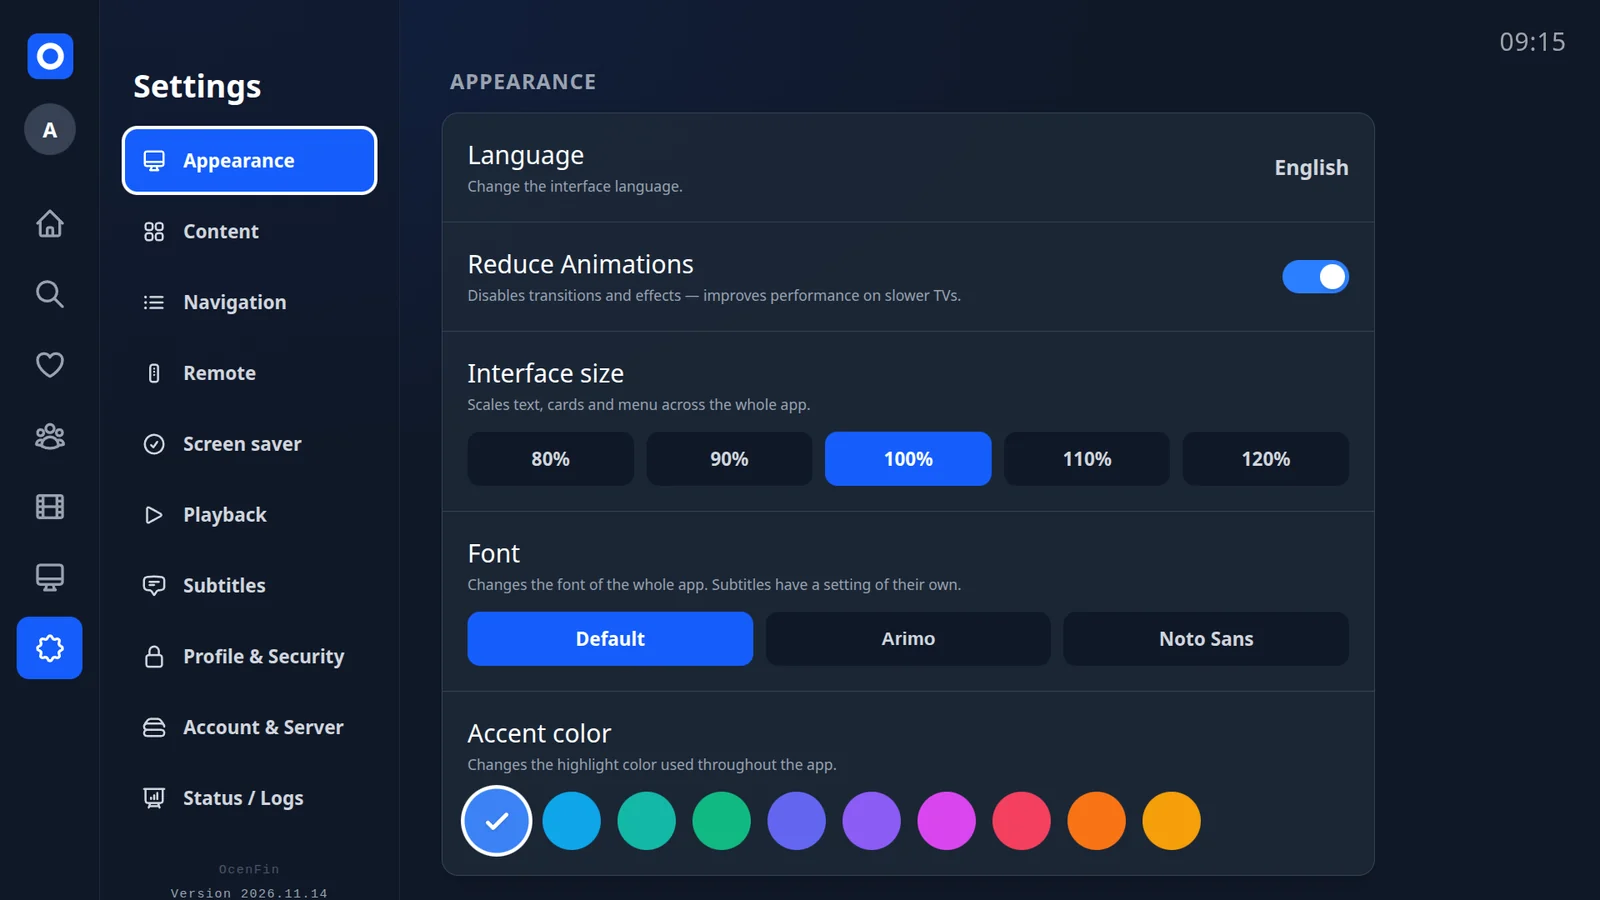
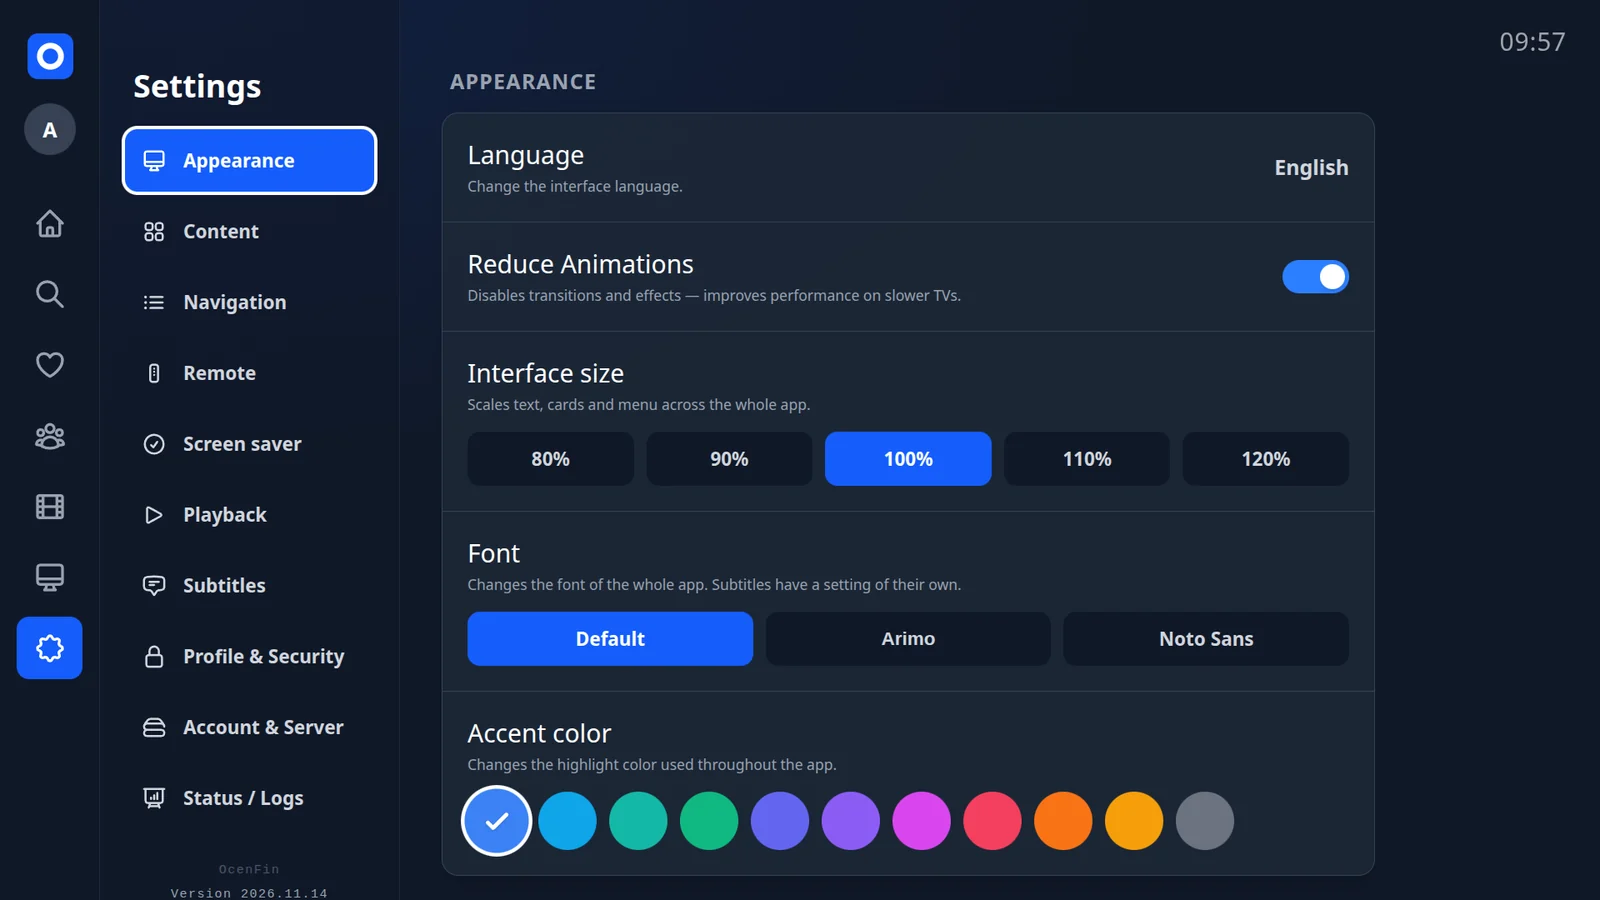
Accent colours: readable, consistent, and graphite
Two places stayed blue whatever accent colour was chosen: the glow around the seek bar's handle and the description on the selected screensaver tile. Both follow the accent now. With emerald, amber, sky, teal or orange, white text on accent buttons and labels fell below the usual contrast; these colours use a slightly deeper tone there, as light as readability allows, and large accent buttons no longer turn paler when focused. A neutral graphite joins the ten colours, for an interface without any colour.

Changed region(s): [[0.3125, 0.8711, 0.7812, 0.9644], [0.9375, 0.0311, 0.9688, 0.0622]]

diff --git a/src/components/Settings.svelte b/src/components/Settings.svelte
@@ -626,6 +626,7 @@
     { id: 'rose',    color: '#f43f5e', label: i18n.t.themeRose },
     { id: 'orange',  color: '#f97316', label: i18n.t.themeOrange },
     { id: 'amber',   color: '#f59e0b', label: i18n.t.themeAmber },
+    { id: 'graphite', color: '#6b7280', label: i18n.t.themeGraphite },
   ];
 
   // Display elements grouped: home rows vs. general interface
@@ -804,7 +805,8 @@
         <div class="p-6">
           <span class="text-2xl text-white font-medium block">{i18n.t.accentColor}</span>
           <span class="text-gray-400 mt-1 mb-4 block text-sm">{i18n.t.accentColorDesc}</span>
-          <div class="flex gap-4 flex-wrap">
+          <!-- gap-3, not 4: eleven swatches stay on one line up to 120 % interface size (CODE-HEALTH §96). -->
+          <div class="flex gap-3 flex-wrap">
             {#each themeSwatches as sw}
               <button onclick={() => setTheme(sw.id)} title={sw.label}
                 class="w-14 h-14 rounded-full focus:outline-none focus:ring-4 focus:ring-white transition-all
@@ -1093,7 +1095,7 @@
                   class="flex-1 text-left p-4 rounded-xl focus:outline-none focus:ring-4 focus:ring-white transition-all
                          {screensaverSettings.mode === val ? 'bg-blue-600 text-white' : 'bg-gray-900 text-gray-300 hover:bg-gray-700'}">
                   <span class="block font-bold text-lg">{label}</span>
-                  <span class="block text-sm mt-0.5 {screensaverSettings.mode === val ? 'text-blue-100' : 'text-gray-400'}">{desc}</span>
+                  <span class="block text-sm mt-0.5 {screensaverSettings.mode === val ? 'text-white/80' : 'text-gray-400'}">{desc}</span>
                 </button>
               {/each}
             </div>
@@ -1665,7 +1667,7 @@
             </button>
             <button onclick={saveProfileImage} disabled={!hasEditedAvatar}
               class="px-6 py-3 rounded-xl font-bold text-base focus:outline-none focus:ring-4 focus:ring-white transition-colors
-                     {avatarSaved ? 'bg-green-600 text-white' : 'bg-blue-600 text-white hover:bg-blue-500 disabled:opacity-50'}">
+                     {avatarSaved ? 'bg-green-600 text-white' : 'bg-blue-600 text-white disabled:opacity-50'}">
               {avatarSaved ? i18n.t.saved : avatarSaving ? i18n.t.saving : i18n.t.save}
             </button>
           </div>
@@ -1750,7 +1752,7 @@
               </div>
             {/if}
             <button onclick={() => avatarModalOpen = false}
-              class="w-full py-3 rounded-xl font-bold text-base bg-blue-600 text-white hover:bg-blue-500 focus:outline-none focus:ring-4 focus:ring-white transition-colors">
+              class="w-full py-3 rounded-xl font-bold text-base bg-blue-600 text-white focus:outline-none focus:ring-4 focus:ring-white transition-colors">
               {i18n.t.close}
             </button>
           </div>
@@ -2056,10 +2058,10 @@
         <div class="flex items-center gap-3">
           <!-- not `disabled` while sending: a disabled button drops its focus; sendLog() guards instead -->
           <button onclick={sendLog}
-            class="px-5 py-3 rounded-xl font-bold bg-blue-600 hover:bg-blue-500 focus:bg-blue-500 text-white
+            class="px-5 py-3 rounded-xl font-bold bg-blue-600 text-white
                    focus:outline-none focus:ring-4 focus:ring-white transition-colors">{logSend?.state === 'sending' ? i18n.t.logSending : i18n.t.logSendButton}</button>
           <button bind:this={qrBtnEl} onclick={showLogQr}
-            class="px-5 py-3 rounded-xl font-bold bg-blue-600 hover:bg-blue-500 focus:bg-blue-500 text-white
+            class="px-5 py-3 rounded-xl font-bold bg-blue-600 text-white
                    focus:outline-none focus:ring-4 focus:ring-white transition-colors">{i18n.t.logQrButton}</button>
           <button onclick={() => showLog = false} {@attach focusOnMount()}
             class="px-5 py-3 rounded-xl font-bold bg-gray-700 hover:bg-gray-600 focus:bg-gray-600 text-white
@@ -2230,7 +2232,7 @@
         </div>
         {#if pwMessage}<p class="text-blue-400 font-bold text-lg">{pwMessage}</p>{/if}
         <button onclick={changePassword} disabled={!newPw}
-          class="w-full bg-blue-600 hover:bg-blue-500 focus:bg-blue-500 text-white font-bold text-2xl py-6 rounded-xl
+          class="w-full bg-blue-600 text-white font-bold text-2xl py-6 rounded-xl
                  focus:outline-none focus:ring-4 focus:ring-white mt-2 disabled:opacity-50">{i18n.t.save}</button>
 
       {:else if activeModal === 'quickConnect'}
@@ -2242,7 +2244,7 @@
                  focus:outline-none focus:ring-4 focus:ring-blue-500" />
         {#if qcMessage}<p class="text-blue-400 font-bold text-lg">{qcMessage}</p>{/if}
         <button onclick={authorizeQuickConnect}
-          class="w-full bg-blue-600 hover:bg-blue-500 focus:bg-blue-500 text-white font-bold text-2xl py-6 rounded-xl
+          class="w-full bg-blue-600 text-white font-bold text-2xl py-6 rounded-xl
                  focus:outline-none focus:ring-4 focus:ring-white mt-2">{i18n.t.qcAuthorizeBtn}</button>
 
       {:else if activeModal === 'sharedPicker'}
@@ -2297,7 +2299,7 @@
                  focus:outline-none focus:ring-4 focus:ring-blue-500" />
         {#if sharedError}<p class="text-red-400 font-bold text-lg">{sharedError}</p>{/if}
         <button onclick={commitSharedManual} disabled={sharedBusy || !sharedManualName.trim()}
-          class="w-full bg-blue-600 hover:bg-blue-500 focus:bg-blue-500 text-white font-bold text-2xl py-6 rounded-xl
+          class="w-full bg-blue-600 text-white font-bold text-2xl py-6 rounded-xl
                  focus:outline-none focus:ring-4 focus:ring-white mt-2 disabled:opacity-50">{i18n.t.confirm}</button>
 
       {:else if activeModal === 'sharedPassword'}
@@ -2309,7 +2311,7 @@
                  focus:outline-none focus:ring-4 focus:ring-blue-500" />
         {#if sharedError}<p class="text-red-400 font-bold text-lg">{sharedError}</p>{/if}
         <button onclick={() => commitSharedUser(sharedPickerUser, sharedPw)} disabled={sharedBusy}
-          class="w-full bg-blue-600 hover:bg-blue-500 focus:bg-blue-500 text-white font-bold text-2xl py-6 rounded-xl
+          class="w-full bg-blue-600 text-white font-bold text-2xl py-6 rounded-xl
                  focus:outline-none focus:ring-4 focus:ring-white mt-2 disabled:opacity-50">{i18n.t.confirm}</button>
       {/if}
 

diff --git a/src/App.svelte b/src/App.svelte
@@ -2279,24 +2279,27 @@
   /* Accent color themes: in Tailwind v4 all blue utilities use CSS variables.
      We override only these → the whole accent color switches without touching 100+
      classes. Red (favorite) and green (watched) stay untouched. The tones are
-     chosen to be OLED-friendly (vivid, slightly desaturated, good on deep black). */
+     chosen to be OLED-friendly (vivid, slightly desaturated, good on deep black).
+     600 carries white text (buttons, labels, selected states), so it must reach 4.5:1 against white:
+     emerald, amber, sky, teal and orange therefore use the lightest tone between their 600 and 700 that
+     reaches 4.6:1 (OKLab mix, CODE-HEALTH §96) — darker would dull them for nothing. */
   :global(html[data-theme="emerald"]) {
-    --color-blue-300:#6ee7b7; --color-blue-400:#34d399; --color-blue-500:#10b981; --color-blue-600:#059669; --color-blue-900:#064e3b;
+    --color-blue-300:#6ee7b7; --color-blue-400:#34d399; --color-blue-500:#10b981; --color-blue-600:#04855f; --color-blue-900:#064e3b;
   }
   :global(html[data-theme="violet"]) {
     --color-blue-300:#c4b5fd; --color-blue-400:#a78bfa; --color-blue-500:#8b5cf6; --color-blue-600:#7c3aed; --color-blue-900:#4c1d95;
   }
   :global(html[data-theme="amber"]) {
-    --color-blue-300:#fcd34d; --color-blue-400:#fbbf24; --color-blue-500:#f59e0b; --color-blue-600:#d97706; --color-blue-900:#78350f;
+    --color-blue-300:#fcd34d; --color-blue-400:#fbbf24; --color-blue-500:#f59e0b; --color-blue-600:#bb5909; --color-blue-900:#78350f;
   }
   :global(html[data-theme="rose"]) {
     --color-blue-300:#fda4af; --color-blue-400:#fb7185; --color-blue-500:#f43f5e; --color-blue-600:#e11d48; --color-blue-900:#881337;
   }
   :global(html[data-theme="sky"]) {
-    --color-blue-300:#7dd3fc; --color-blue-400:#38bdf8; --color-blue-500:#0ea5e9; --color-blue-600:#0284c7; --color-blue-900:#0c4a6e;
+    --color-blue-300:#7dd3fc; --color-blue-400:#38bdf8; --color-blue-500:#0ea5e9; --color-blue-600:#027bbb; --color-blue-900:#0c4a6e;
   }
   :global(html[data-theme="teal"]) {
-    --color-blue-300:#5eead4; --color-blue-400:#2dd4bf; --color-blue-500:#14b8a6; --color-blue-600:#0d9488; --color-blue-900:#134e4a;
+    --color-blue-300:#5eead4; --color-blue-400:#2dd4bf; --color-blue-500:#14b8a6; --color-blue-600:#0f837a; --color-blue-900:#134e4a;
   }
   :global(html[data-theme="indigo"]) {
     --color-blue-300:#a5b4fc; --color-blue-400:#818cf8; --color-blue-500:#6366f1; --color-blue-600:#4f46e5; --color-blue-900:#312e81;
@@ -2305,7 +2308,12 @@
     --color-blue-300:#f0abfc; --color-blue-400:#e879f9; --color-blue-500:#d946ef; --color-blue-600:#c026d3; --color-blue-900:#701a75;
   }
   :global(html[data-theme="orange"]) {
-    --color-blue-300:#fdba74; --color-blue-400:#fb923c; --color-blue-500:#f97316; --color-blue-600:#ea580c; --color-blue-900:#7c2d12;
+    --color-blue-300:#fdba74; --color-blue-400:#fb923c; --color-blue-500:#f97316; --color-blue-600:#ce480c; --color-blue-900:#7c2d12;
+  }
+  /* Graphite: no colour at all, the UI's own gray family one step lighter than its surfaces — 600 = gray-500
+     (white text 4.83:1), 500 = gray-400, clearly above a switched-off toggle's gray-600 (CODE-HEALTH §96). */
+  :global(html[data-theme="graphite"]) {
+    --color-blue-300:#e5e7eb; --color-blue-400:#d1d5db; --color-blue-500:#9ca3af; --color-blue-600:#6b7280; --color-blue-900:#374151;
   }
 
   /* Splash screen: logo pulses gently, overlay fades out */

diff --git a/src/components/Login.svelte b/src/components/Login.svelte
@@ -574,7 +574,7 @@
           <button
             onclick={discoverJellyfinServers}
             disabled={isDiscovering}
-            class="w-full flex items-center justify-center gap-3 bg-blue-600 hover:bg-blue-500 disabled:bg-blue-900
+            class="w-full flex items-center justify-center gap-3 bg-blue-600 disabled:bg-blue-900
                    text-white font-bold text-lg py-4 rounded-xl focus:outline-none focus:ring-4 focus:ring-blue-300 transition-colors"
           >
             {#if isDiscovering}
@@ -688,7 +688,7 @@
             {@attach focusOnMount()}
           />
           <button onclick={() => authenticateUser(pendingUser.Name, password)}
-            class="w-full bg-blue-600 hover:bg-blue-500 text-white font-bold text-xl py-4 rounded-xl mb-4
+            class="w-full bg-blue-600 text-white font-bold text-xl py-4 rounded-xl mb-4
                    focus:outline-none focus:ring-4 focus:ring-white">
             {i18n.t.loginText}
           </button>
@@ -732,7 +732,7 @@
                    focus:outline-none focus:ring-4 focus:ring-blue-500"
           />
           <button onclick={() => authenticateUser(manualUsername, manualPassword)}
-            class="w-full bg-blue-600 hover:bg-blue-500 text-white font-bold text-xl py-4 rounded-xl mb-4
+            class="w-full bg-blue-600 text-white font-bold text-xl py-4 rounded-xl mb-4
                    focus:outline-none focus:ring-4 focus:ring-white">
             {i18n.t.loginText}
           </button>

diff --git a/src/components/Collection.svelte b/src/components/Collection.svelte
@@ -296,7 +296,7 @@
     <h1 class="text-4xl font-bold text-white min-w-0 truncate">{name === WATCHLIST_NAME ? i18n.t.watchlist : name}</h1>
     {#if items.length > 0 && !playlistEditMode}
       <button onclick={playAll}
-        class="ml-4 shrink-0 bg-blue-600 hover:bg-blue-500 focus:bg-blue-500 text-white font-bold px-6 py-3 rounded-xl
+        class="ml-4 shrink-0 bg-blue-600 text-white font-bold px-6 py-3 rounded-xl
                focus:outline-none focus:ring-4 focus:ring-white transition-colors flex items-center gap-2">
         {#if buildingQueue}
           <div class="w-5 h-5 border-2 border-white border-t-transparent rounded-full animate-spin"></div>
@@ -384,7 +384,7 @@
                        focus:outline-none focus:ring-2 focus:ring-blue-500 focus:border-blue-500"
               />
               <button onclick={savePlaylistName}
-                class="px-6 py-3 rounded-lg font-bold bg-blue-600 hover:bg-blue-500 focus:bg-blue-500 text-white focus:outline-none focus:ring-4 focus:ring-white transition-colors">
+                class="px-6 py-3 rounded-lg font-bold bg-blue-600 text-white focus:outline-none focus:ring-4 focus:ring-white transition-colors">
                 {i18n.t.save}
               </button>
               <button onclick={endRename}

diff --git a/src/components/Player.svelte b/src/components/Player.svelte
@@ -2906,11 +2906,11 @@
   }
   :global(.seekbar:focus::-webkit-slider-thumb) {
     width: 24px; height: 24px;
-    box-shadow: 0 0 0 5px var(--color-blue-500, #3b82f6), 0 0 16px 3px rgba(59,130,246,.55);
+    box-shadow: 0 0 0 5px var(--color-blue-500, #3b82f6), 0 0 16px 3px color-mix(in oklab, var(--color-blue-500, #3b82f6) 55%, transparent);
   }
   :global(.seekbar:focus::-moz-range-thumb) {
     width: 24px; height: 24px;
-    box-shadow: 0 0 0 5px var(--color-blue-500, #3b82f6), 0 0 16px 3px rgba(59,130,246,.55);
+    box-shadow: 0 0 0 5px var(--color-blue-500, #3b82f6), 0 0 16px 3px color-mix(in oklab, var(--color-blue-500, #3b82f6) 55%, transparent);
   }
 
   /* Our own subtitle overlay renderer (external VTT): layout only — size, colour, edge and

diff --git a/src/components/AddToPicker.svelte b/src/components/AddToPicker.svelte
@@ -150,7 +150,7 @@
              failed request it stayed there — Back then bypassed this picker and went to App (in the
              player: playback ended). createNew/addTo ignore a press while busy anyway. -->
         <button onclick={createNew} disabled={!newName.trim()}
-          class="bg-blue-600 hover:bg-blue-500 focus:bg-blue-500 disabled:opacity-40 disabled:cursor-not-allowed text-white font-bold px-6 py-3 rounded-lg focus:outline-none focus:ring-4 focus:ring-white transition-colors">
+          class="bg-blue-600 disabled:opacity-40 disabled:cursor-not-allowed text-white font-bold px-6 py-3 rounded-lg focus:outline-none focus:ring-4 focus:ring-white transition-colors">
           {i18n.t.create}
         </button>
       </div>

diff --git a/src/components/SyncPlay.svelte b/src/components/SyncPlay.svelte
@@ -53,7 +53,7 @@
     {:else}
       <!-- Not in a group: create or join -->
       <button onclick={() => onCreate?.()} {@attach focusOnMount()}
-        class="w-full bg-blue-600 hover:bg-blue-500 focus:bg-blue-500 text-white font-bold text-xl py-4 rounded-xl
+        class="w-full bg-blue-600 text-white font-bold text-xl py-4 rounded-xl
                focus:outline-none focus:ring-4 focus:ring-white transition-colors flex items-center justify-center gap-3">
         <svg class="w-6 h-6" fill="none" stroke="currentColor" stroke-width="2" viewBox="0 0 24 24">
           <path stroke-linecap="round" stroke-linejoin="round" d="M12 4v16m8-8H4"/>

diff --git a/src/locales/uk.js b/src/locales/uk.js
@@ -305,6 +305,7 @@ export default {
     themeEmerald: "Смарагдовий",
     themeViolet: "Фіолетовий",
     themeAmber: "Бурштиновий",
+    themeGraphite: "Графітовий",
     themeRose: "Рожевий",
     themeSky: "Небесний",
     themeTeal: "Бірюзовий",

diff --git a/src/locales/ru.js b/src/locales/ru.js
@@ -305,6 +305,7 @@ export default {
     themeEmerald: "Изумрудный",
     themeViolet: "Фиолетовый",
     themeAmber: "Янтарный",
+    themeGraphite: "Графитовый",
     themeRose: "Розовый",
     themeSky: "Небесный",
     themeTeal: "Бирюзовый",

diff --git a/src/locales/cs.js b/src/locales/cs.js
@@ -305,6 +305,7 @@ export default {
     themeEmerald: "Smaragdová",
     themeViolet: "Fialová",
     themeAmber: "Jantarová",
+    themeGraphite: "Grafitová",
     themeRose: "Růžová",
     themeSky: "Nebesky modrá",
     themeTeal: "Modrozelená",

diff --git a/src/locales/pl.js b/src/locales/pl.js
@@ -305,6 +305,7 @@ export default {
     themeEmerald: "Szmaragdowy",
     themeViolet: "Fioletowy",
     themeAmber: "Bursztynowy",
+    themeGraphite: "Grafitowy",
     themeRose: "Różany",
     themeSky: "Błękitny",
     themeTeal: "Morski",

diff --git a/src/locales/ko.js b/src/locales/ko.js
@@ -305,6 +305,7 @@ export default {
     themeEmerald: "에메랄드",
     themeViolet: "바이올렛",
     themeAmber: "앰버",
+    themeGraphite: "그라파이트",
     themeRose: "로즈",
     themeSky: "하늘",
     themeTeal: "청록",
